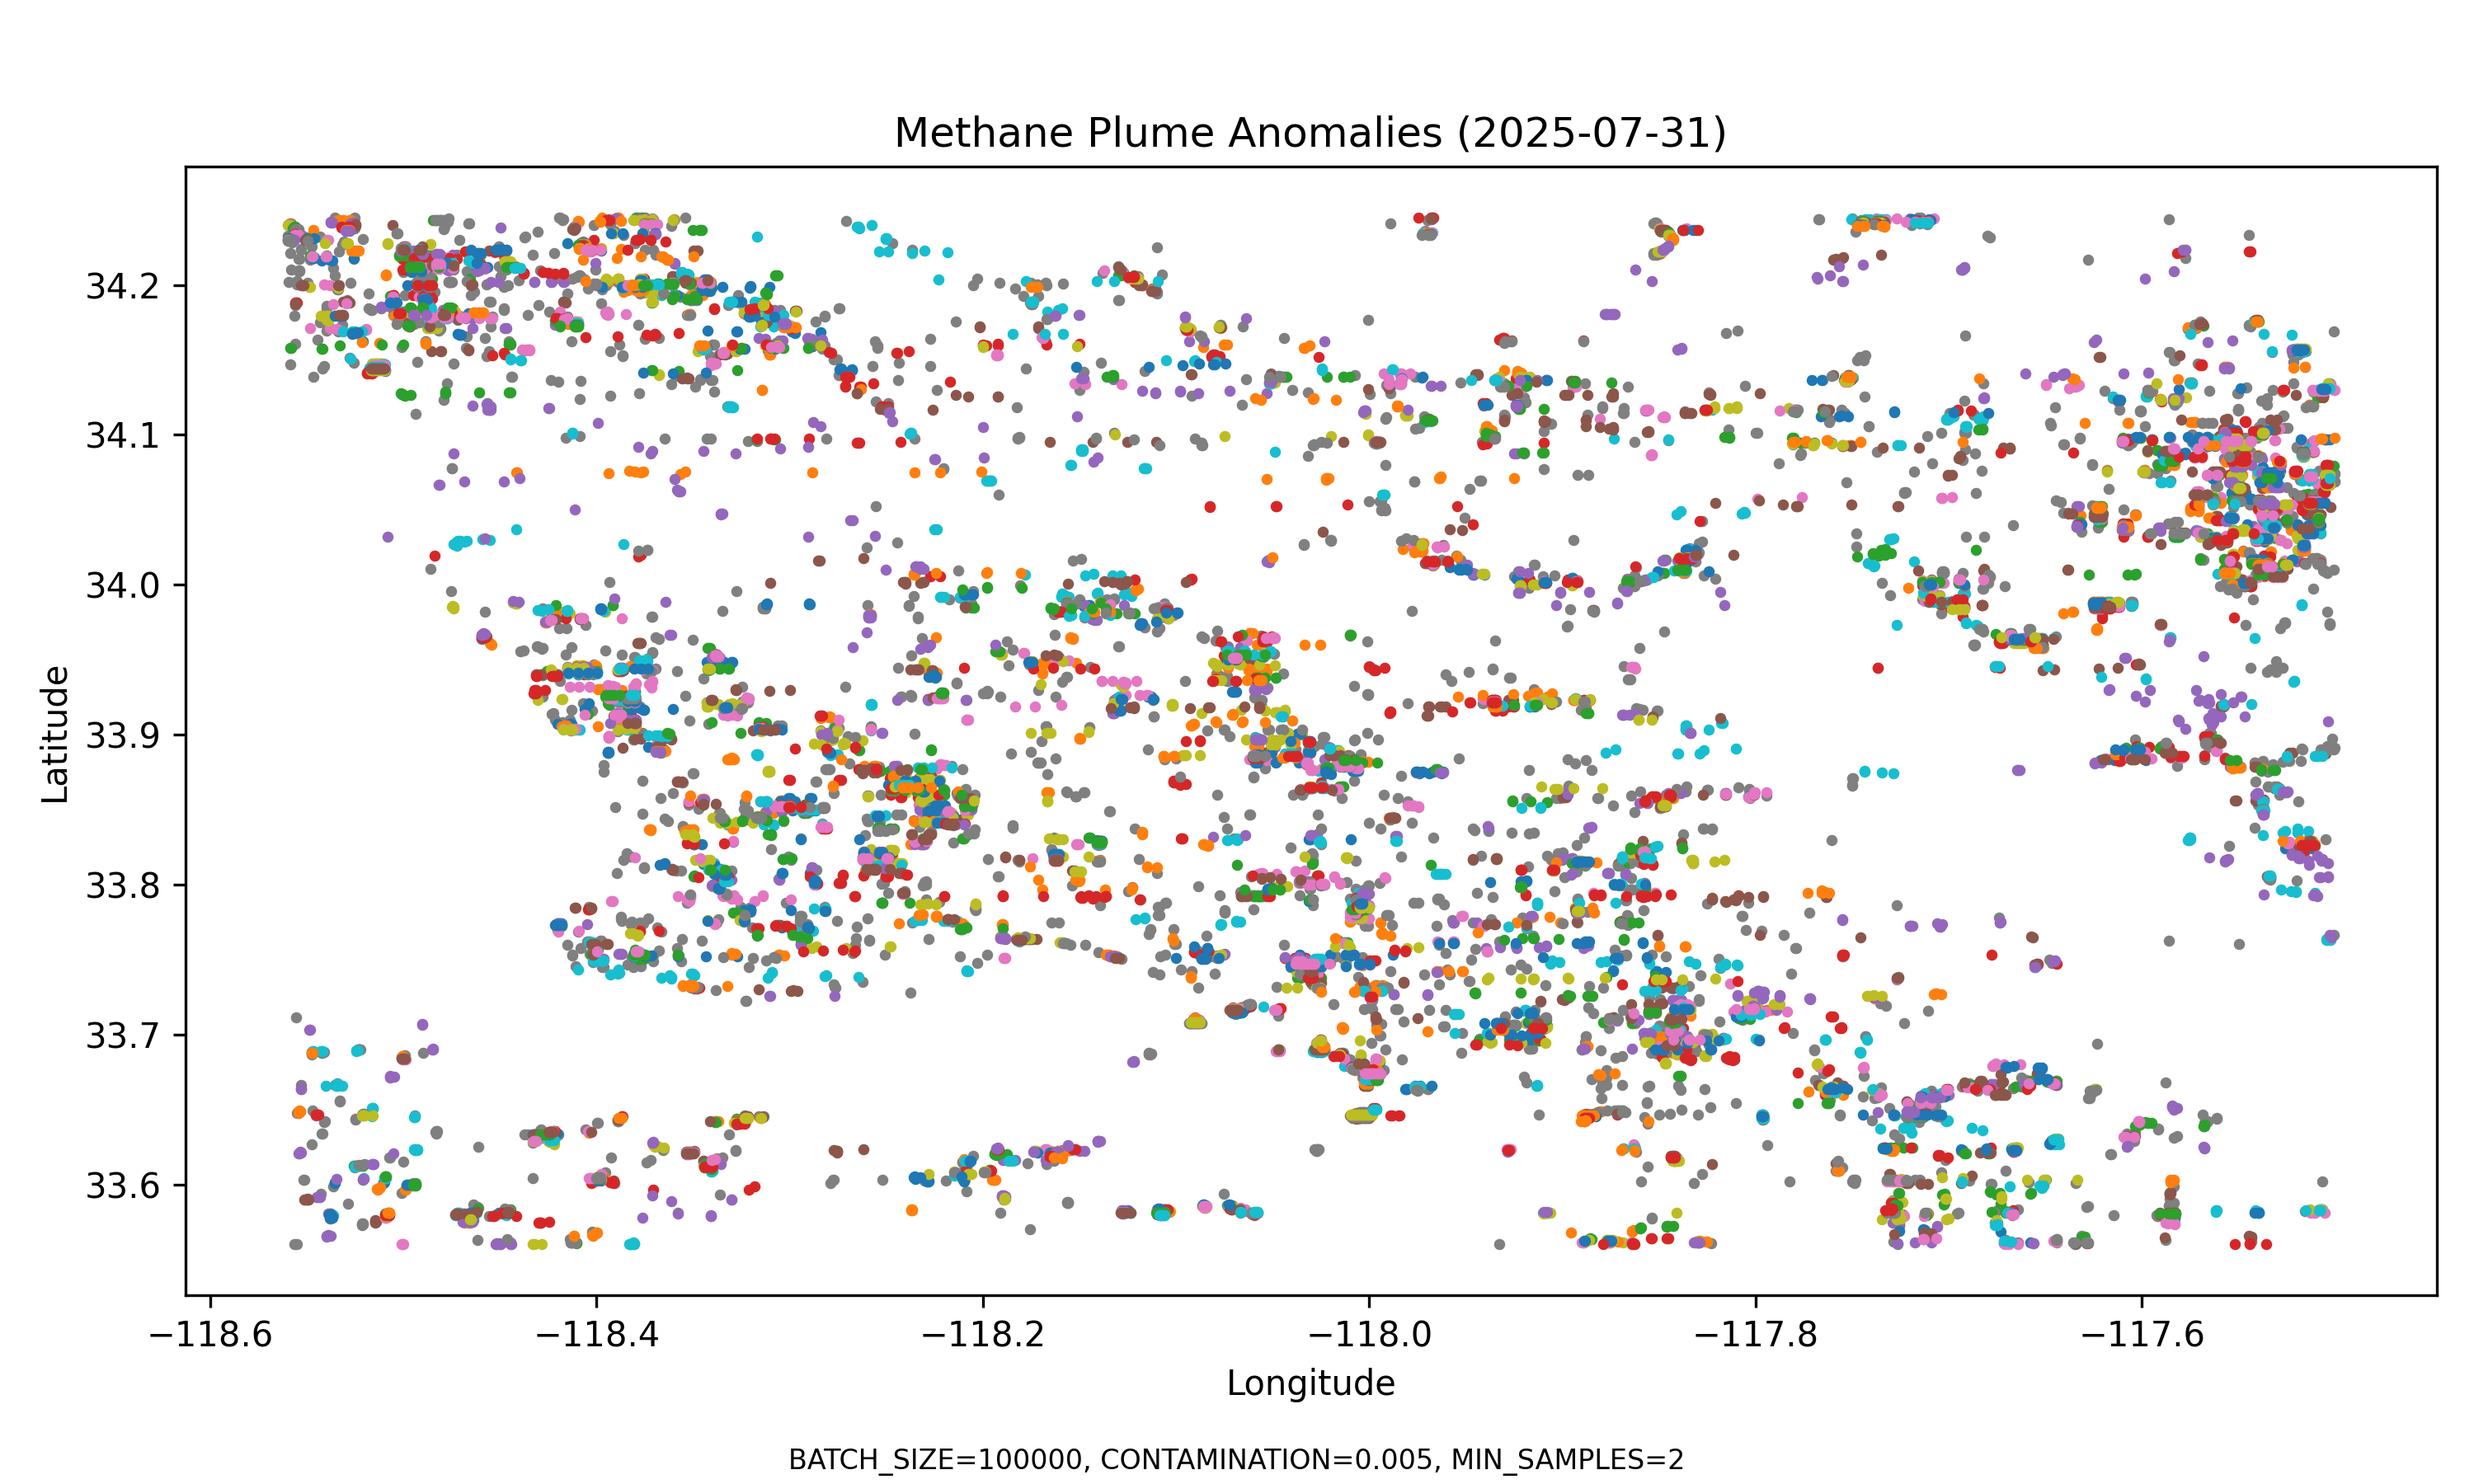
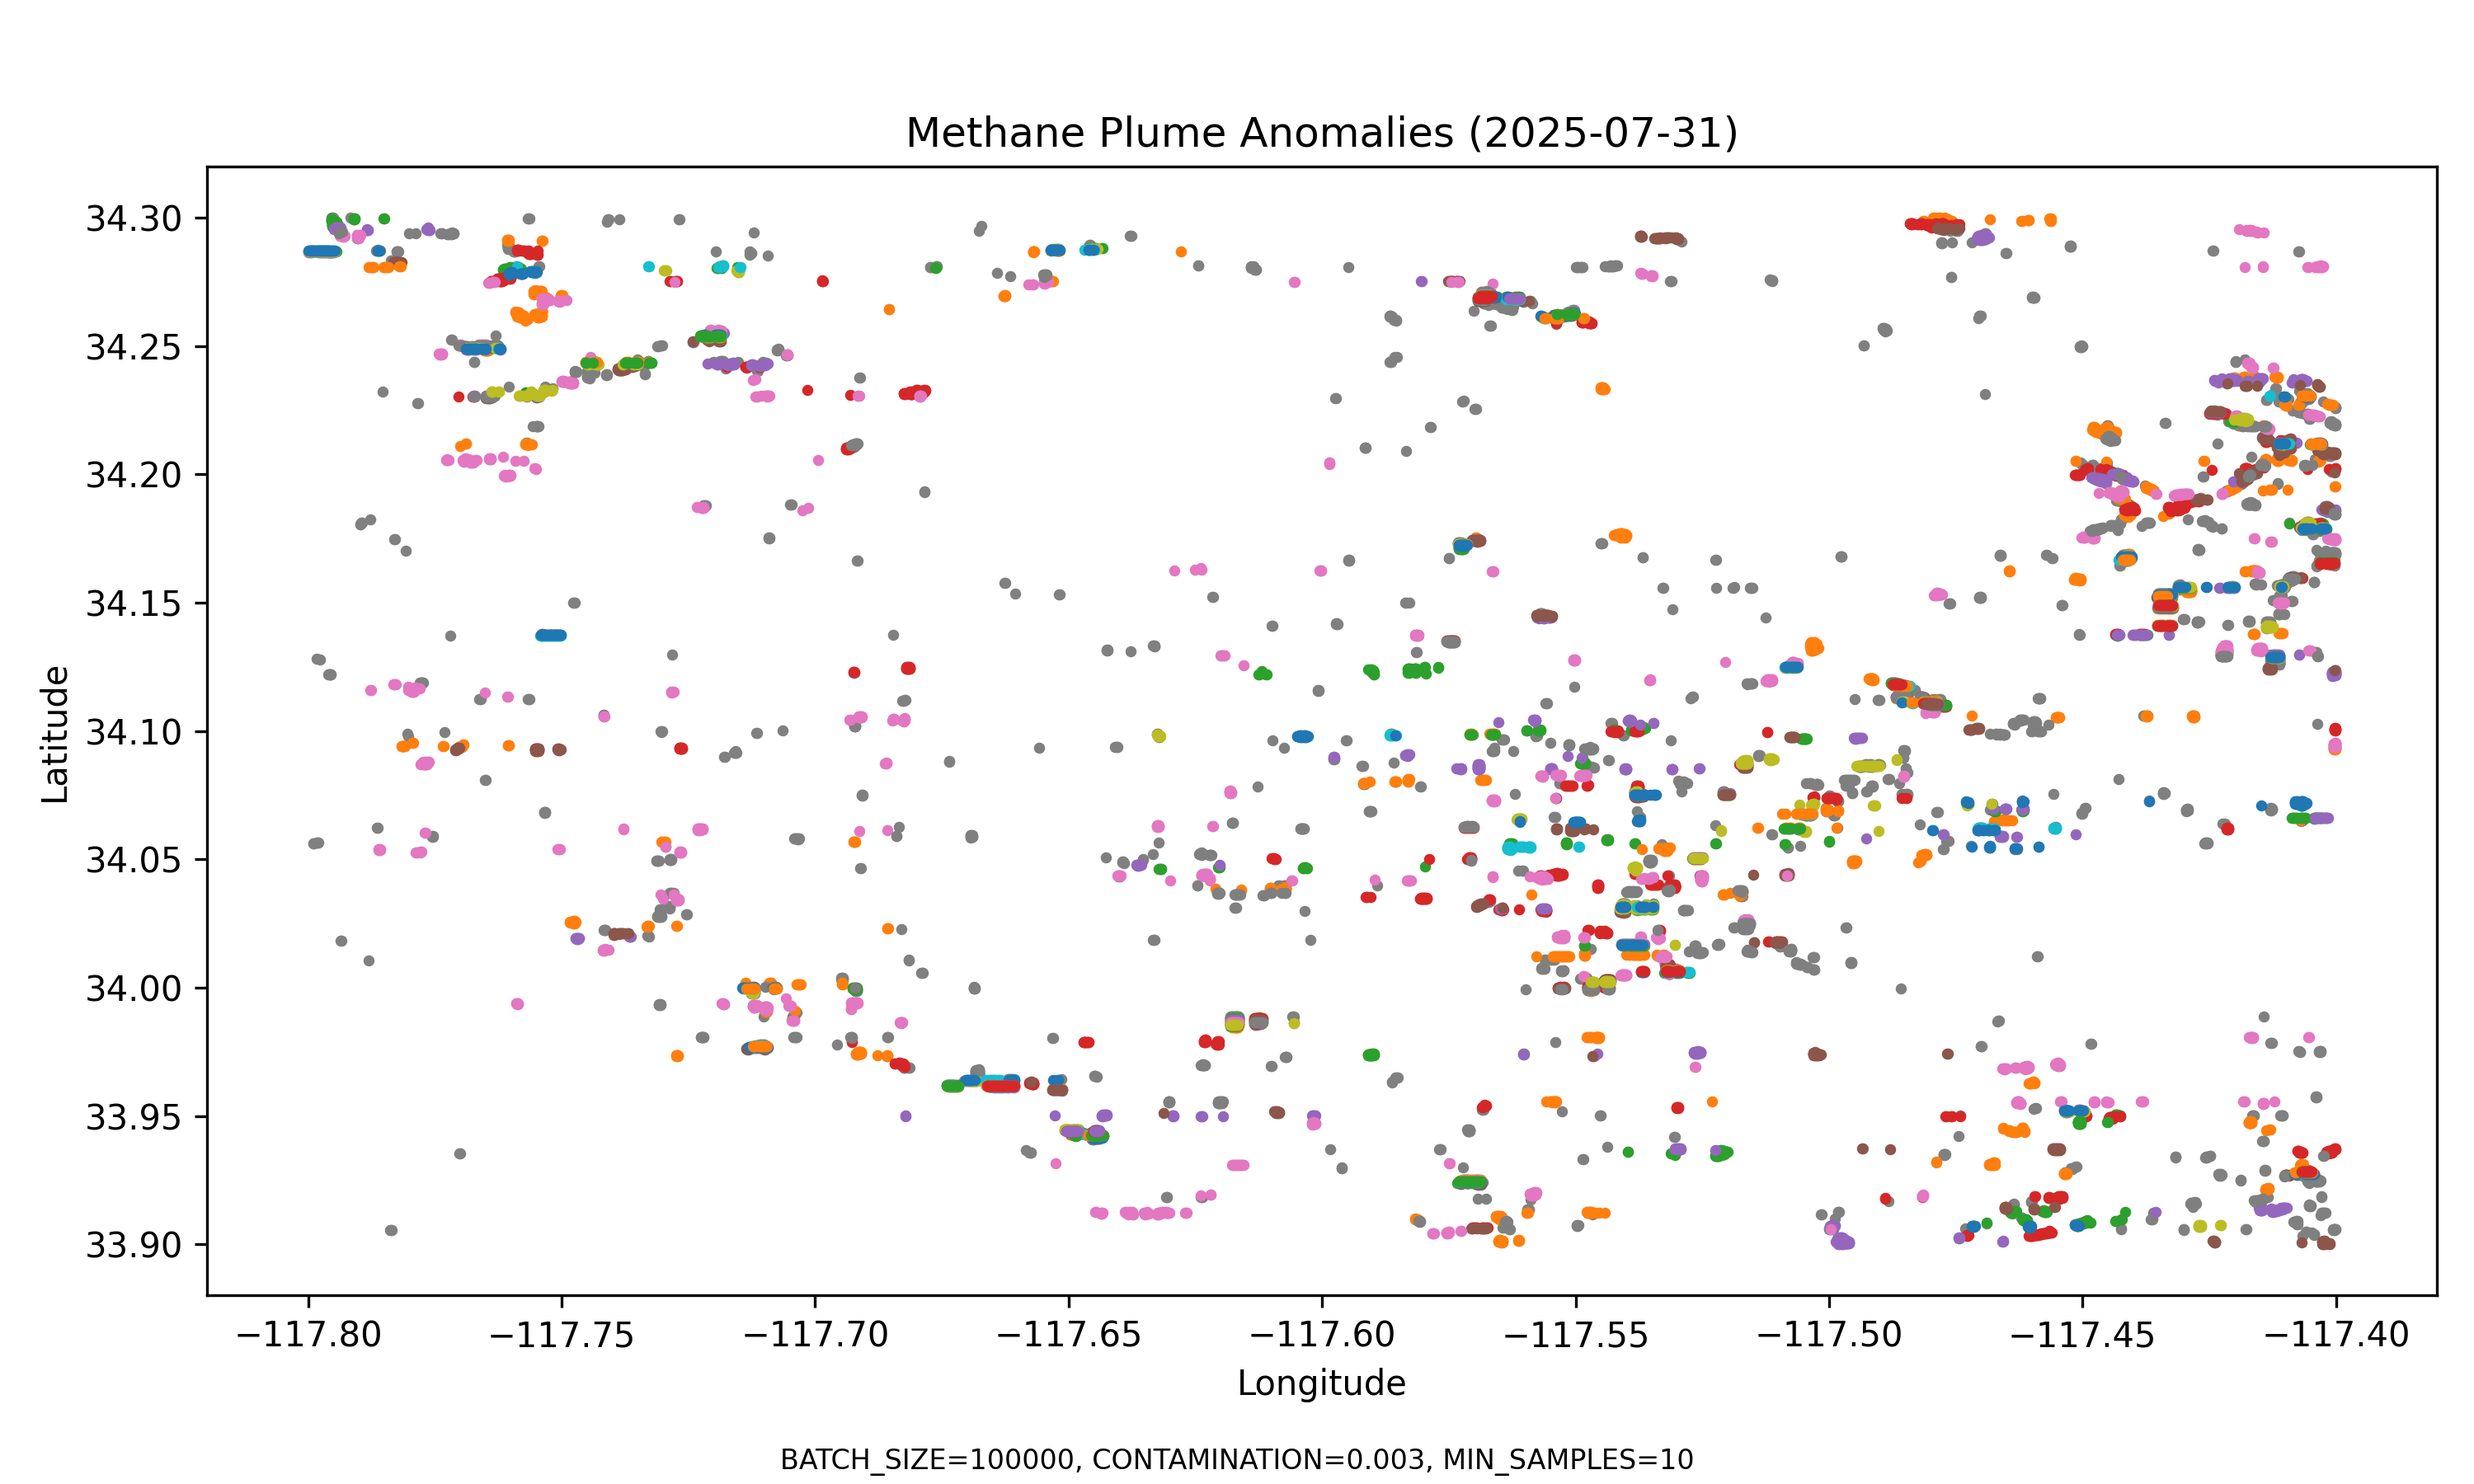
final commit

diff --git a/scripts/config.py b/scripts/config.py
@@ -1,18 +1,18 @@
 # Bounding Box for area of interest
-BBOX = [-118.56, 33.56, -117.5, 34.245] # Example: California region
-WIDTH = 2000  # Image width
-HEIGHT = 1560  # Image height
+BBOX = [-117.8, 33.9, -117.4, 34.3] # Example: California region
+WIDTH = 2500  # Image width
+HEIGHT = 2500  # Image height
 
 # AWS S3
 S3_BUCKET = "ndvi-daily-data"
 
-PREFIX = "sentinel-data"
+PREFIX = "sentinel-data-zoomed"
 
 
 #Model parameters
 BATCH_SIZE = 100000
 
-CONTAMINATION = 0.005 # Proportion of outliers in the data
+CONTAMINATION = 0.003 # Proportion of outliers in the data
 RANDOM_STATE = 42
 EPS = 0.01  
-MIN_SAMPLES = 2  # DBSCAN min_samples parameter
+MIN_SAMPLES = 10  # DBSCAN min_samples parameter
